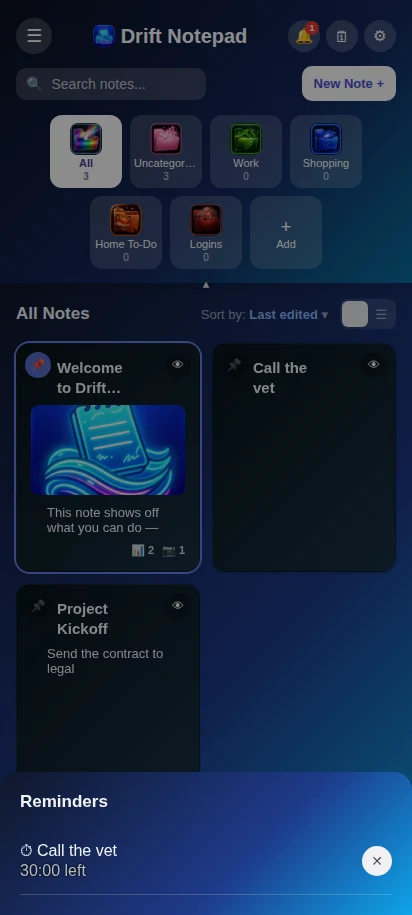
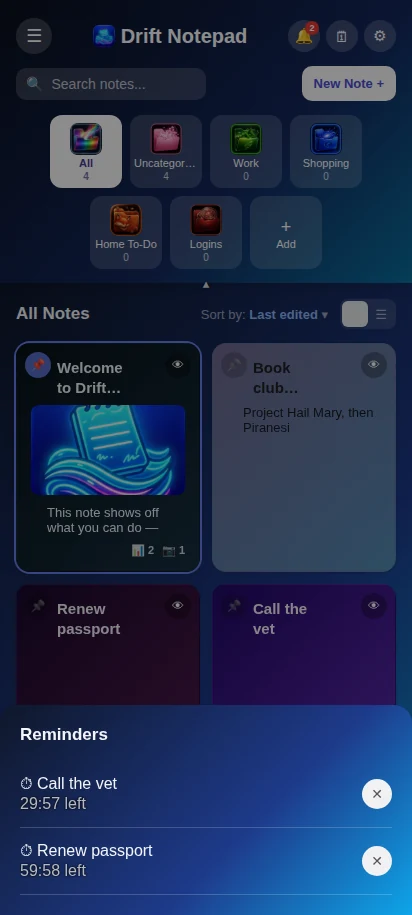
Deeper scroll-jank pass, fix a shape bug in the pulse ring, tutorial fixes
Performance (the earlier grain/pulse fix wasn't the whole story):
- content-visibility: auto on every major section, tuned per-section
  with contain-intrinsic-size measured at mobile widths. This is the
  actual high-leverage fix for a page this long: the browser now skips
  layout/paint entirely for sections until they're near the viewport
  instead of doing that work for all eleven sections' shadows,
  gradients, and images up front.
- Tried dropping the grain's mix-blend-mode entirely for a cheaper
  compositing path -- broke the visual outright (the grain is white
  noise; without soft-light, any opacity of it just washes the whole
  page toward gray instead of reading as texture). Reverted; kept the
  earlier position: fixed -> absolute fix, which doesn't have that
  problem.
- The hero's glow blobs (filter: blur(60px) + an infinite transform
  animation) now pause via IntersectionObserver once the hero scrolls
  out of view, instead of re-rasterizing a 60px blur every frame for
  the entire time the page is open regardless of scroll position.

Fixed a real bug in the pulse-ring animation from the last round: it
used a single transform: scale() on a non-square pill button, which
distorted the ring into an off-shape oval instead of a clean concentric
outline. Recomputed as separate scaleX/scaleY against the button's
actual measured dimensions, and added a second ring staggered 1.2s
behind the first for a fuller double-pulse -- same transform/opacity-only
[…]

Changed region(s): [[0.0291, 0.3672, 1.0, 0.8874], [0.0874, 0.918, 0.3786, 0.9792], [0.0583, 0.9486, 0.0874, 0.9792]]

diff --git a/index.html b/index.html
@@ -160,11 +160,15 @@ html { scrollbar-color: var(--border) var(--bg); scrollbar-width: thin; }
 
 /* ---------- grain ---------- */
 /* absolute, not fixed: a fixed layer stays still while the page scrolls
-   underneath it, so a blend mode on it has to be recomputed against
-   fresh content every single scroll frame -- real, measurable jank on
-   phones. Absolute lets the browser composite it once against the
-   content beneath it and just translate the whole result during
-   scroll, same visual grain, without the per-frame re-blend cost. */
+   underneath it, forcing whatever's behind it to be recomposited every
+   scroll frame; absolute lets the browser composite it once and
+   translate the whole result during scroll instead.
+   mix-blend-mode stays -- tried dropping it too, but the grain SVG is
+   white noise, and white at any opacity without soft-light just washes
+   the whole page toward gray instead of reading as texture. soft-light
+   is specifically what keeps dark areas dark while still adding grain
+   to light ones, so it's load-bearing for how this is supposed to
+   look, not a free performance line to cut. */
 .grain {
   position: absolute;
   inset: 0;
@@ -181,11 +185,29 @@ html { scrollbar-color: var(--border) var(--bg); scrollbar-width: thin; }
   opacity: 0;
   transform: translateY(28px);
   transition: opacity 0.8s cubic-bezier(0.16, 1, 0.3, 1), transform 0.8s cubic-bezier(0.16, 1, 0.3, 1);
+  /* The single biggest lever on a page this long: skip layout/paint
+     entirely for a section until it's near the viewport, instead of
+     the browser doing that work for all eleven sections' shadows,
+     gradients, and images up front. contain-intrinsic-size is this
+     class's own natural height at mobile widths (where the "sketchy
+     scrolling" report came from) -- it's what the browser reserves as
+     placeholder space before a section has actually been rendered, so
+     getting it close avoids a layout jump as each one comes into
+     view. Per-class overrides below refine it per section type. */
+  content-visibility: auto;
+  contain-intrinsic-size: auto 700px;
 }
 .reveal.is-visible {
   opacity: 1;
   transform: translateY(0);
 }
+.feature.reveal { contain-intrinsic-size: auto 970px; }
+.live-panel.reveal { contain-intrinsic-size: auto 370px; }
+.homescreen.reveal { contain-intrinsic-size: auto 955px; }
+.notif-panel.reveal { contain-intrinsic-size: auto 720px; }
+.showcase.reveal { contain-intrinsic-size: auto 780px; }
+.trust.reveal { contain-intrinsic-size: auto 1020px; }
+.closing.reveal { contain-intrinsic-size: auto 430px; }
 
 .wrap {
   max-width: var(--content-w);
@@ -295,6 +317,16 @@ html { scrollbar-color: var(--border) var(--bg); scrollbar-width: thin; }
   filter: blur(60px);
   z-index: 0;
   pointer-events: none;
+}
+/* filter: blur() forces the blob to be re-rasterized at its new
+   position/scale on every frame of the (infinite) animation below,
+   unlike a plain transform on unfiltered content -- real, continuous
+   cost for as long as it runs, whether the hero is on screen or
+   scrolled miles away. Paused once it isn't, see the IntersectionObserver
+   in the page's own <script>. */
+.hero-art.paused::before,
+.hero-art.paused::after {
+  animation-play-state: paused;
 }
 .hero-art::before {
   width: 62%;
@@ -955,32 +987,40 @@ html { scrollbar-color: var(--border) var(--bg); scrollbar-width: thin; }
   transform: translateY(0) scale(0.97);
   box-shadow: 0 10px 20px -14px var(--shadow);
 }
-/* A slow breathing ring around the button, separate from its own
-   box-shadow (a ::after pseudo-element, not an animation on the
-   button itself) so the hover/focus box-shadow above can't fight the
-   animation's box-shadow keyframes over who wins each frame.
-   Animates transform/opacity, not box-shadow's spread -- a static
-   border pre-sized to the ring's full extent (inset: -14px, matching
-   the old spread-radius of 14px) scaled down and faded in, then
-   scaled up to its natural size while fading out. box-shadow forces a
-   real repaint every frame for as long as this runs, which is forever
-   (infinite); transform/opacity are compositor-only, so the same
-   "expanding ring" reads identically without the continuous repaint
-   cost -- this was a real, measurable source of scroll jank on phones. */
-.store-btn::after {
+/* A breathing double ring around the button, separate from its own
+   box-shadow (::after/::before pseudo-elements, not an animation on
+   the button itself) so the hover/focus box-shadow above can't fight
+   the animation's keyframes over who wins each frame.
+   Animates transform/opacity, not box-shadow's spread -- box-shadow
+   forces a real repaint every frame for as long as this runs, which
+   is forever (infinite); transform/opacity are compositor-only.
+   The scale is two numbers, not one: this button is a wide pill
+   (roughly 233x54), not a square, so shrinking it down uniformly by
+   one ratio (the first version of this fix) squashed the ring into
+   an off-shape oval instead of a smaller copy of the same pill.
+   scaleX/scaleY computed from the actual button box against the
+   ring's full extent (inset: -14px on each side, matching the old
+   box-shadow spread-radius) so it grows back to precisely the
+   button's own corner radius, not a distorted one.
+   Two rings staggered 1.2s apart (half the 2.4s loop) read as a
+   fuller, more layered pulse than one ring alone, at the same
+   per-frame cost -- both are still transform/opacity only. */
+.store-btn::after,
+.store-btn::before {
   content: '';
   position: absolute;
   inset: -14px;
   border-radius: inherit;
   border: 2px solid rgba(var(--accent-rgb), 0.45);
   opacity: 0;
-  transform: scale(0.8);
-  animation: store-btn-pulse 2.4s ease-in-out infinite;
+  transform: scale(0.893, 0.659);
+  animation: store-btn-pulse 2.4s ease-out infinite;
   pointer-events: none;
 }
+.store-btn::before { animation-delay: 1.2s; }
 @keyframes store-btn-pulse {
-  0% { transform: scale(0.8); opacity: 0.45; }
-  70%, 100% { transform: scale(1); opacity: 0; }
+  0% { transform: scale(0.893, 0.659); opacity: 0.5; }
+  70%, 100% { transform: scale(1, 1); opacity: 0; }
 }
 .store-btn-icon {
   font-size: 0.8rem;
@@ -1451,7 +1491,7 @@ html { scrollbar-color: var(--border) var(--bg); scrollbar-width: thin; }
     <div class="trust-head">
       <p class="eyebrow">Privacy</p>
       <h2>Your notes never leave your phone.</h2>
-      <p>No account, no cloud, no server for your notes to ever touch. Everything lives in local storage on this device -- the way it's always worked, without a login screen bolted on top.</p>
+      <p>No account, no cloud, no server for your notes to ever touch. Everything lives in local storage on this device, the way it's always worked, without a login screen bolted on top.</p>
     </div>
     <div class="trust-grid">
       <div class="trust-item">
@@ -1467,7 +1507,7 @@ html { scrollbar-color: var(--border) var(--bg); scrollbar-width: thin; }
       <div class="trust-item">
         <svg viewBox="0 0 24 24" fill="none" stroke="currentColor" stroke-width="1.6" aria-hidden="true"><path d="M12 3l7 3.5v5c0 4.5-3 7.5-7 9-4-1.5-7-4.5-7-9v-5L12 3z"/><path d="M9 12l2 2 4-4"/></svg>
         <h3>Crash reports only, and optional</h3>
-        <p>If something breaks, an anonymous error report can help fix it -- never note content -- and it's one toggle away from off.</p>
+        <p>If something breaks, an anonymous error report can help fix it (never note content), and it's one toggle away from off.</p>
       </div>
     </div>
   </section>
@@ -1624,6 +1664,23 @@ html { scrollbar-color: var(--border) var(--bg); scrollbar-width: thin; }
   // once per frame no matter how fast the scroll events fire.
   var heroArt = document.querySelector('.hero-art');
   var heroSection = document.getElementById('top');
+
+  // The glow blobs behind the hero phone (.hero-art::before/::after)
+  // animate transform forever, which is normally compositor-cheap --
+  // except they're also blurred (filter: blur(60px)), so every frame
+  // of that animation re-rasterizes the blur at the new position, real
+  // continuous cost that doesn't stop just because the hero scrolled
+  // out of view. Pausing it there (and resuming when it's back) is
+  // pure savings the rest of the time someone's reading the page.
+  if (heroArt && heroSection && 'IntersectionObserver' in window) {
+    var glowObserver = new IntersectionObserver(function (entries) {
+      entries.forEach(function (entry) {
+        heroArt.classList.toggle('paused', !entry.isIntersecting);
+      });
+    });
+    glowObserver.observe(heroSection);
+  }
+
   if (heroArt && heroSection && !reduceMotion) {
     var parallaxTicking = false;
     var updateParallax = function () {

diff --git a/tutorial/index.html b/tutorial/index.html
@@ -144,7 +144,7 @@ html { scrollbar-color: var(--border) var(--bg); scrollbar-width: thin; }
 .jump-row a:active { transform: translateY(0) scale(0.95); }
 
 /* ---------- doc section ---------- */
-.doc-section { padding-block: clamp(3rem, 6vw, 5rem); border-top: 1px solid var(--border); }
+.doc-section { padding-block: clamp(3rem, 6vw, 5rem); border-top: 1px solid var(--border); content-visibility: auto; contain-intrinsic-size: auto 1400px; }
 .doc-section-head { max-width: 62ch; margin: 0 0 2.5rem; }
 .doc-section-head h2 {
   font-family: var(--font-display); font-weight: 500; font-size: clamp(1.9rem, 1.6vw + 1.2rem, 2.6rem);
@@ -210,6 +210,36 @@ html { scrollbar-color: var(--border) var(--bg); scrollbar-width: thin; }
 }
 @media (max-width: 600px) {
   .site-nav { flex-wrap: wrap; gap: 0.75rem; }
+}
+
+#back-to-top {
+  position: fixed;
+  right: clamp(1.25rem, 4vw, 2.5rem);
+  bottom: clamp(1.25rem, 4vw, 2.5rem);
+  z-index: 500;
+  width: 46px;
+  height: 46px;
+  border-radius: 50%;
+  display: flex;
+  align-items: center;
+  justify-content: center;
+  background: linear-gradient(120deg, var(--accent) 0%, var(--accent-strong) 100%);
+  color: var(--bg);
+  box-shadow: 0 12px 28px -10px var(--shadow), 0 0 0 1px var(--border);
+  opacity: 0;
+  transform: translateY(12px) scale(0.9);
+  pointer-events: none;
+  transition: opacity 0.3s ease, transform 0.3s cubic-bezier(0.16, 1, 0.3, 1), box-shadow 0.3s ease;
+}
+#back-to-top.visible { opacity: 1; transform: translateY(0) scale(1); pointer-events: auto; }
+#back-to-top:hover, #back-to-top:focus-visible {
+  box-shadow: 0 16px 34px -10px var(--shadow), 0 0 0 4px var(--accent-soft);
+  transform: translateY(-3px) scale(1);
+}
+#back-to-top:active { transform: translateY(0) scale(0.88); }
+#back-to-top svg { width: 18px; height: 18px; }
+@media (prefers-reduced-motion: reduce) {
+  #back-to-top { transition: opacity 0.2s ease; transform: none !important; }
 }
 
 .site-footer { border-top: 1px solid var(--border); padding-block: 2.25rem; }
@@ -334,7 +364,7 @@ html { scrollbar-color: var(--border) var(--bg); scrollbar-width: thin; }
         <h3><span class="topic-icon">↕</span>Reordering by dragging</h3>
         <p>Notes on the dashboard (when sorted "Manually"), header icons, categories in Settings, and list lines in a note can all be long-pressed and dragged to reorder. Hold for about half a second until it "picks up," then drag it where you want.</p>
       </div>
-      <div class="doc-topic">
+      <div class="doc-topic" id="photos">
         <h3><span class="topic-icon">📷</span>Photos</h3>
         <p>Add photos to a note with the Camera, Gallery, or Files buttons at the bottom of its editor. The first photo shows as a thumbnail on the note's dashboard card, with a badge for how many it holds.</p>
       </div>
@@ -506,6 +536,10 @@ html { scrollbar-color: var(--border) var(--bg); scrollbar-width: thin; }
 
 <div class="wrap tideline-wrap" style="padding-block:1rem;"></div>
 
+<a href="#top" id="back-to-top" aria-label="Back to top">
+  <svg viewBox="0 0 16 16" fill="none" stroke="currentColor" stroke-width="1.8"><path d="M3 9l5-5 5 5M8 4v8"/></svg>
+</a>
+
 <footer class="site-footer">
   <div class="wrap footer-row">
     <span>&copy; 2026 Drift Notepad</span>
@@ -513,6 +547,17 @@ html { scrollbar-color: var(--border) var(--bg); scrollbar-width: thin; }
     <a href="../privacypolicy/">Privacy Policy</a>
   </div>
 </footer>
+
+<script>
+(function () {
+  var backToTop = document.getElementById('back-to-top');
+  var toggleBackToTop = function () {
+    backToTop.classList.toggle('visible', window.scrollY > window.innerHeight * 0.8);
+  };
+  window.addEventListener('scroll', toggleBackToTop, { passive: true });
+  toggleBackToTop();
+}());
+</script>
 
 </body>
 </html>
